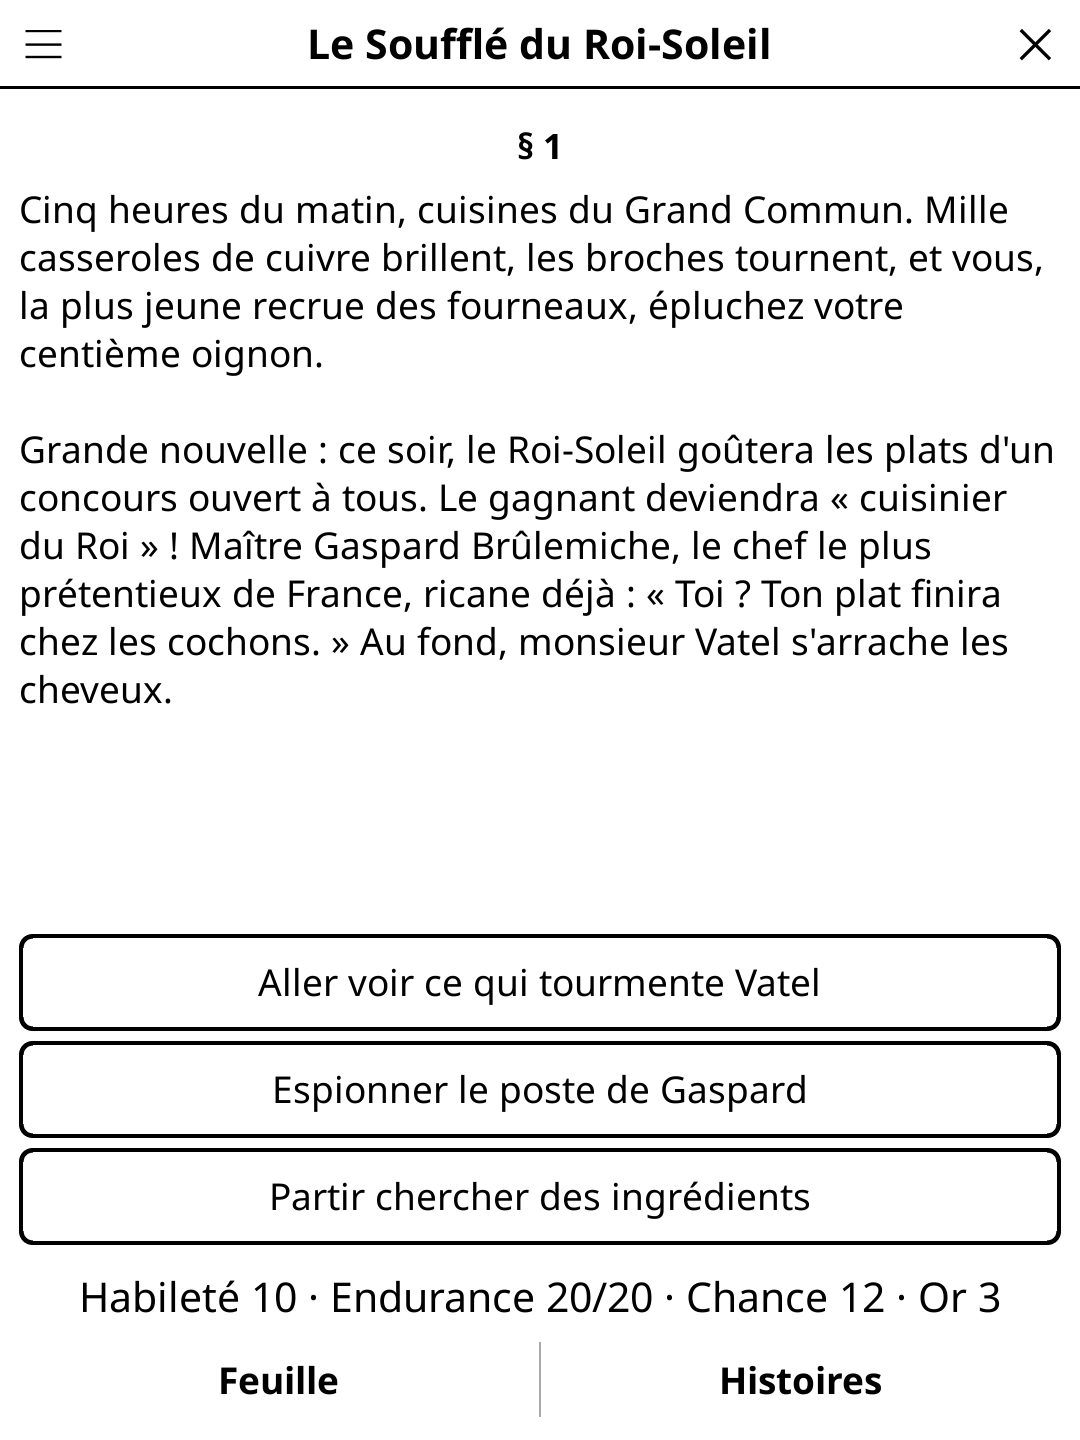
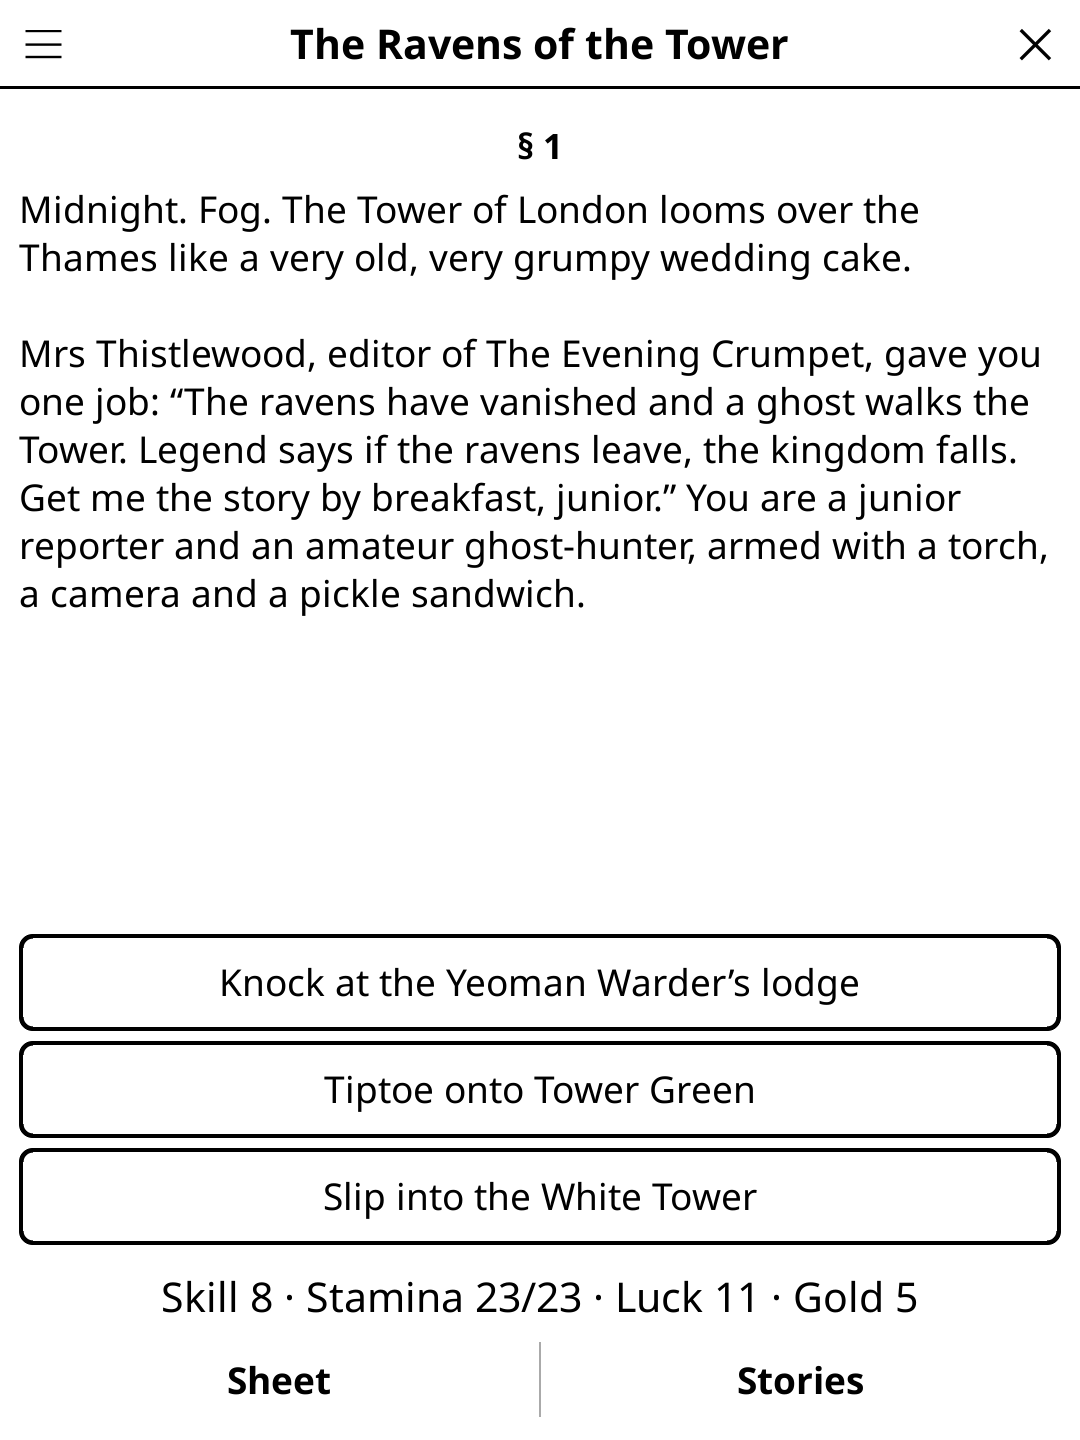
release: 1.1.9 -- Picks up game-common 1.20.0: a deferred action (timer tick, computer's
See CHANGELOG.md.

diff --git a/CHANGELOG.md b/CHANGELOG.md
@@ -1,5 +1,14 @@
 # Changelog
 
+## [1.1.9] - 2026-11-24
+
+### Changed
+- Picks up game-common 1.20.0: a deferred action (timer tick, computer's
+  move, card flip) no longer runs once the game is closed or a new game has
+  started, and the game is saved a few seconds after a move instead of after
+  every one, and at once on close, suspend or power-off.
+- The README screenshot shows the game in English.
+
 ## [1.1.8] - 2026-11-24
 
 ### Changed
